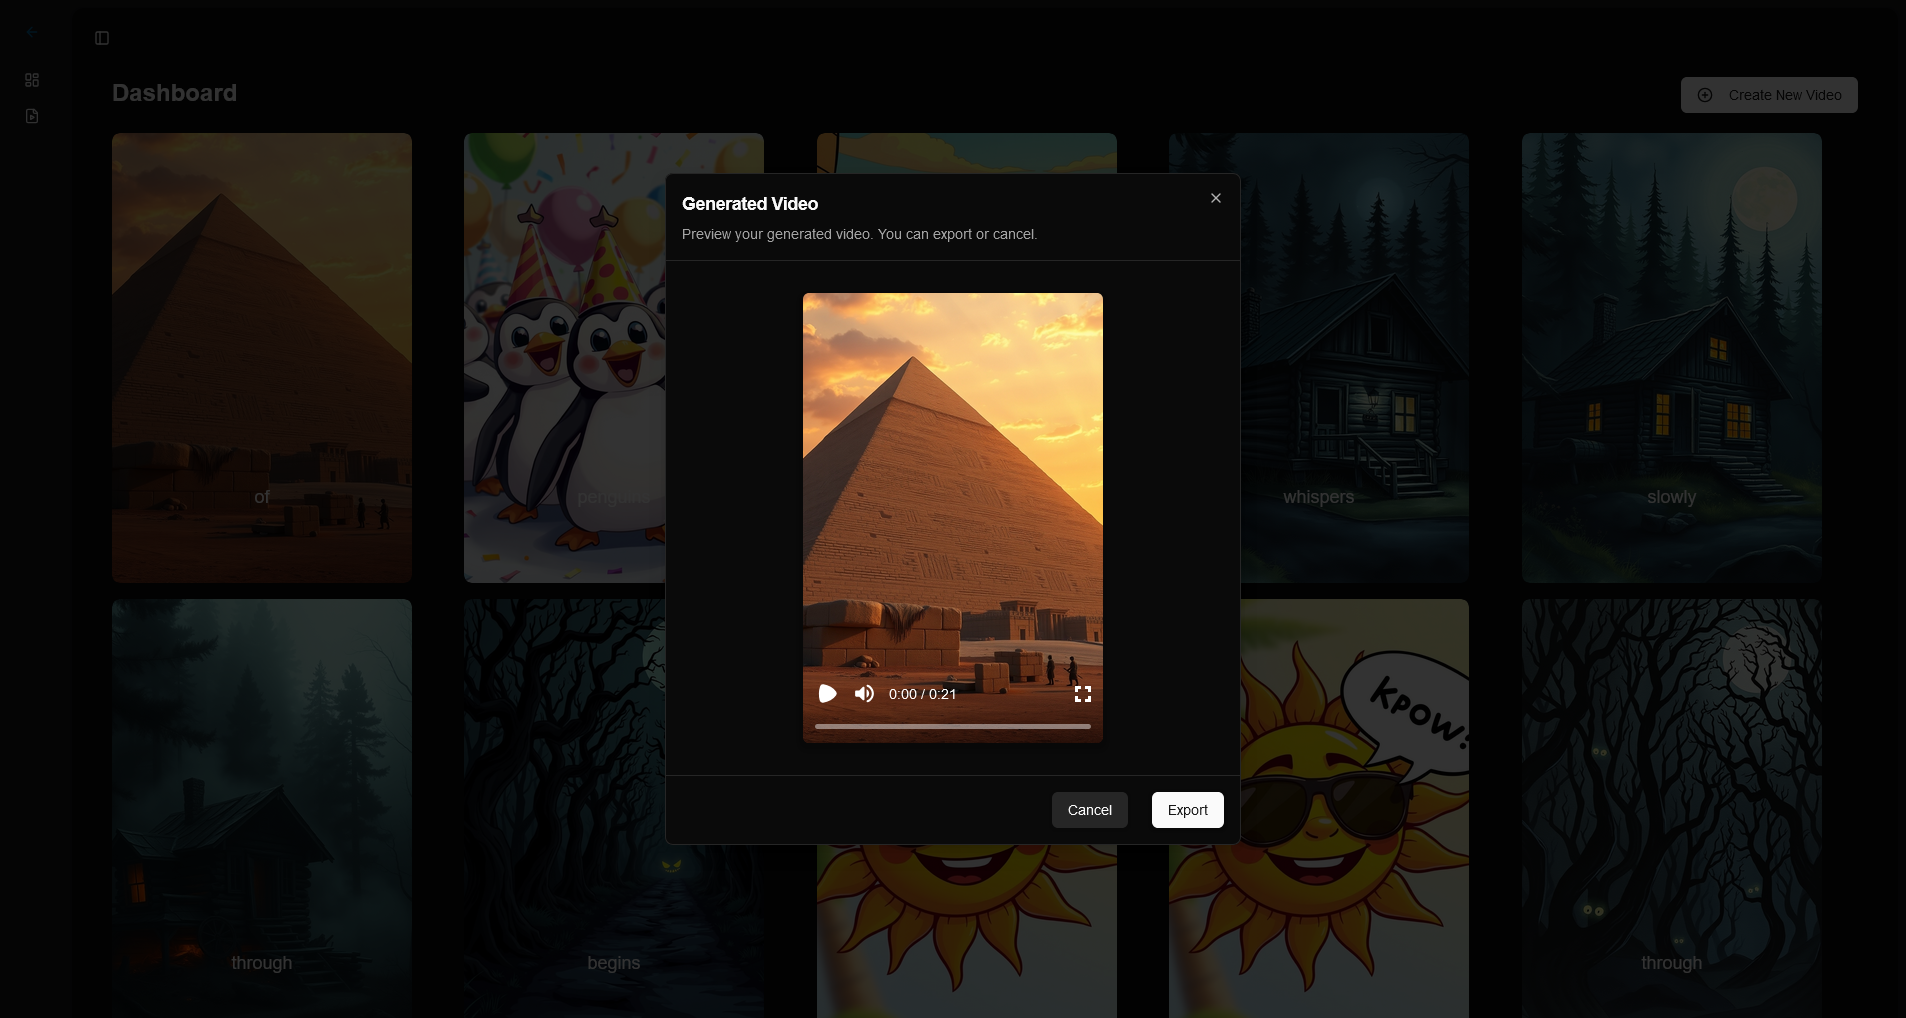
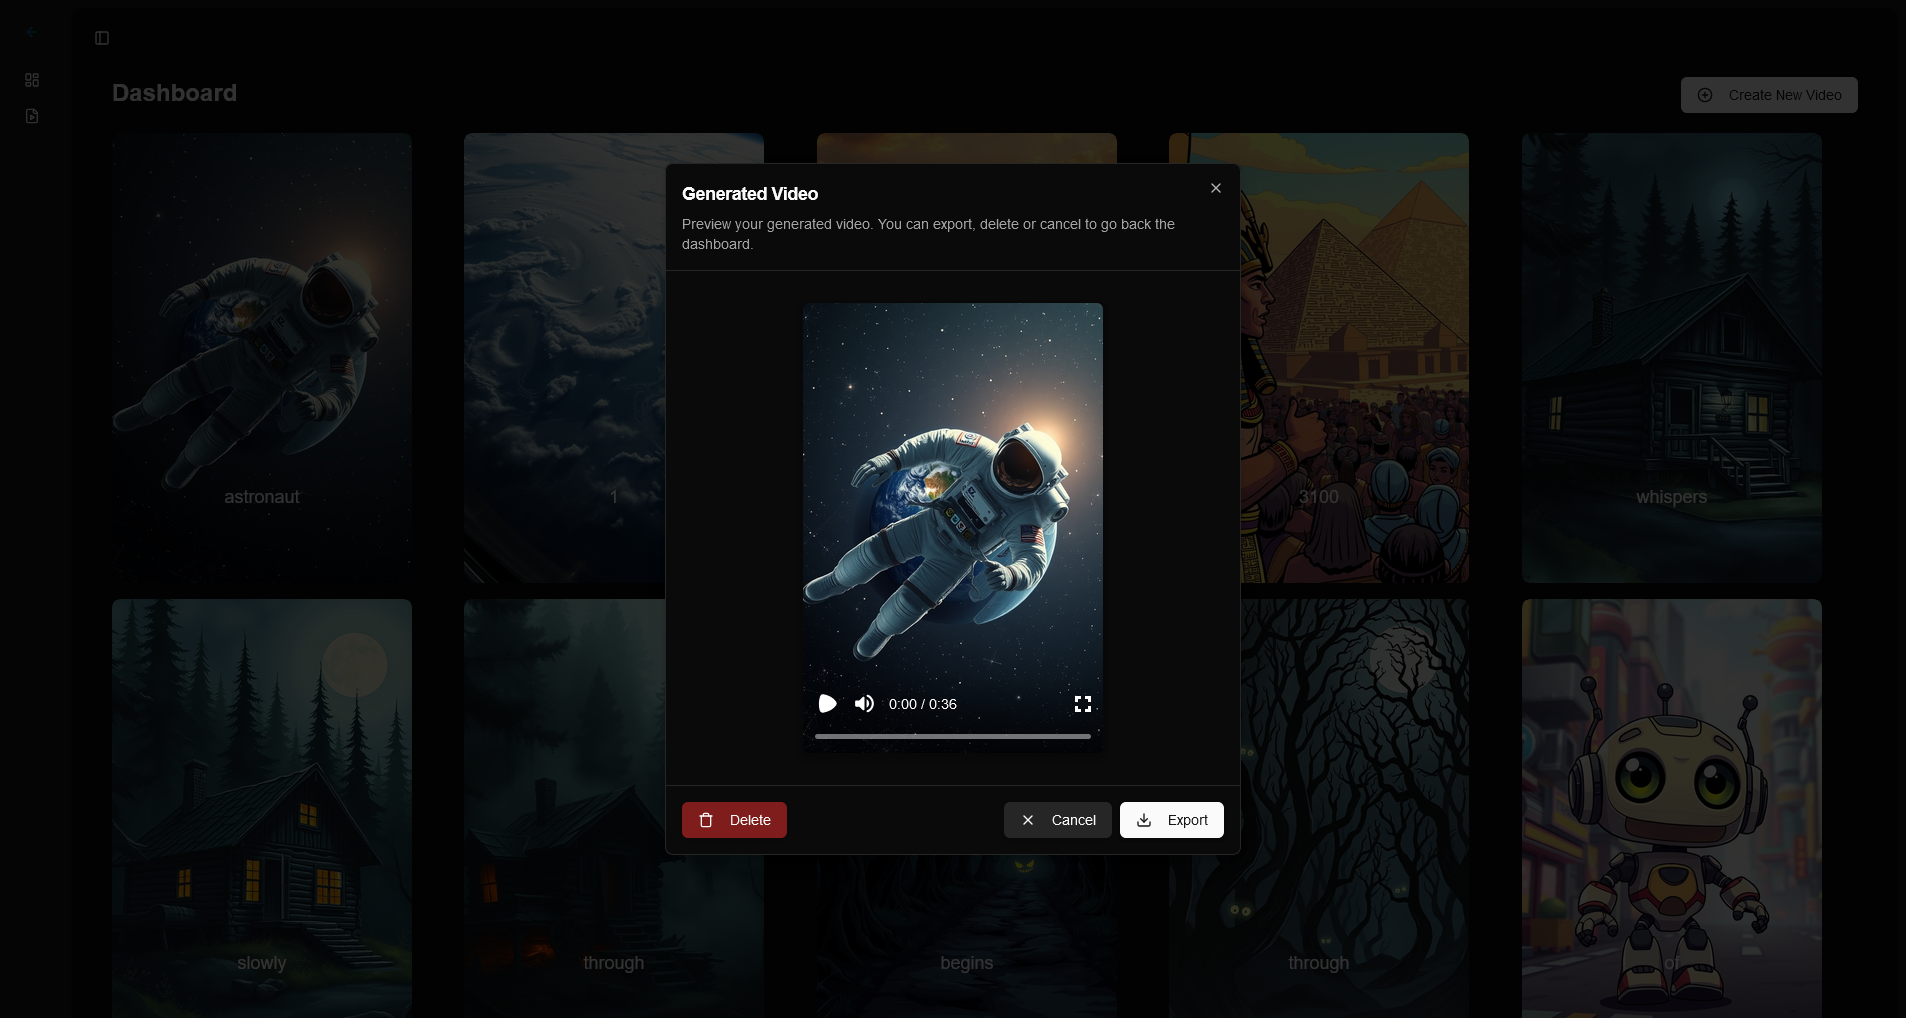
feat: delete video (#27)
closes #27

diff --git a/frontend/app/api/delete-video/route.ts b/frontend/app/api/delete-video/route.ts
@@ -1,0 +1,41 @@
+import { deleteRender } from '@remotion/lambda/client'
+import axios from 'axios'
+import { NextRequest, NextResponse } from 'next/server'
+
+const bucketName = process.env.REMOTION_AWS_BUCKET_NAME
+
+export async function DELETE(req: NextRequest) {
+  if (!bucketName) {
+    return NextResponse.json(
+      { error: 'BucketName not defined' },
+      { status: 500 },
+    )
+  }
+
+  const { renderId, videoId } = await req.json()
+
+  console.log(renderId)
+
+  try {
+    if (renderId) {
+      await deleteRender({
+        bucketName,
+        region: 'us-east-1',
+        renderId,
+      })
+    }
+
+    await axios.delete(`${process.env.NEXT_PUBLIC_API_URL}/videos/${videoId}`)
+
+    return NextResponse.json(
+      { message: 'Video deleted successfully' },
+      { status: 200 },
+    )
+  } catch (error) {
+    console.error('Error deleting video:', error)
+    return NextResponse.json(
+      { error: 'Failed to delete video', details: error },
+      { status: 500 },
+    )
+  }
+}

diff --git a/frontend/app/dashboard/_components/ShortVideoGrid.tsx b/frontend/app/dashboard/_components/ShortVideoGrid.tsx
@@ -9,10 +9,9 @@ import { VideoData } from '@/app/lib/interface'
 import { SkeletonCard } from './SkeletonCard'
 import { MyComposition } from '@/remotion/Composition'
 import { Thumbnail } from '@remotion/player'
-import { VideoPlayerDialog } from './VideoPlayerDialog'
+import { VideoPlayerDialog } from '@/app/components/VideoPlayerDialog'
 
 interface ShortVideoGridData extends VideoData {
-  id: number
   createdAt: string
 }
 
@@ -87,6 +86,7 @@ export default function ShortVideoGrid() {
         isOpen={!!selectedVideo}
         onClose={() => setSelectedVideo(null)}
         video={selectedVideo}
+        refreshVideos={GetVideos}
       />
     </>
   )
